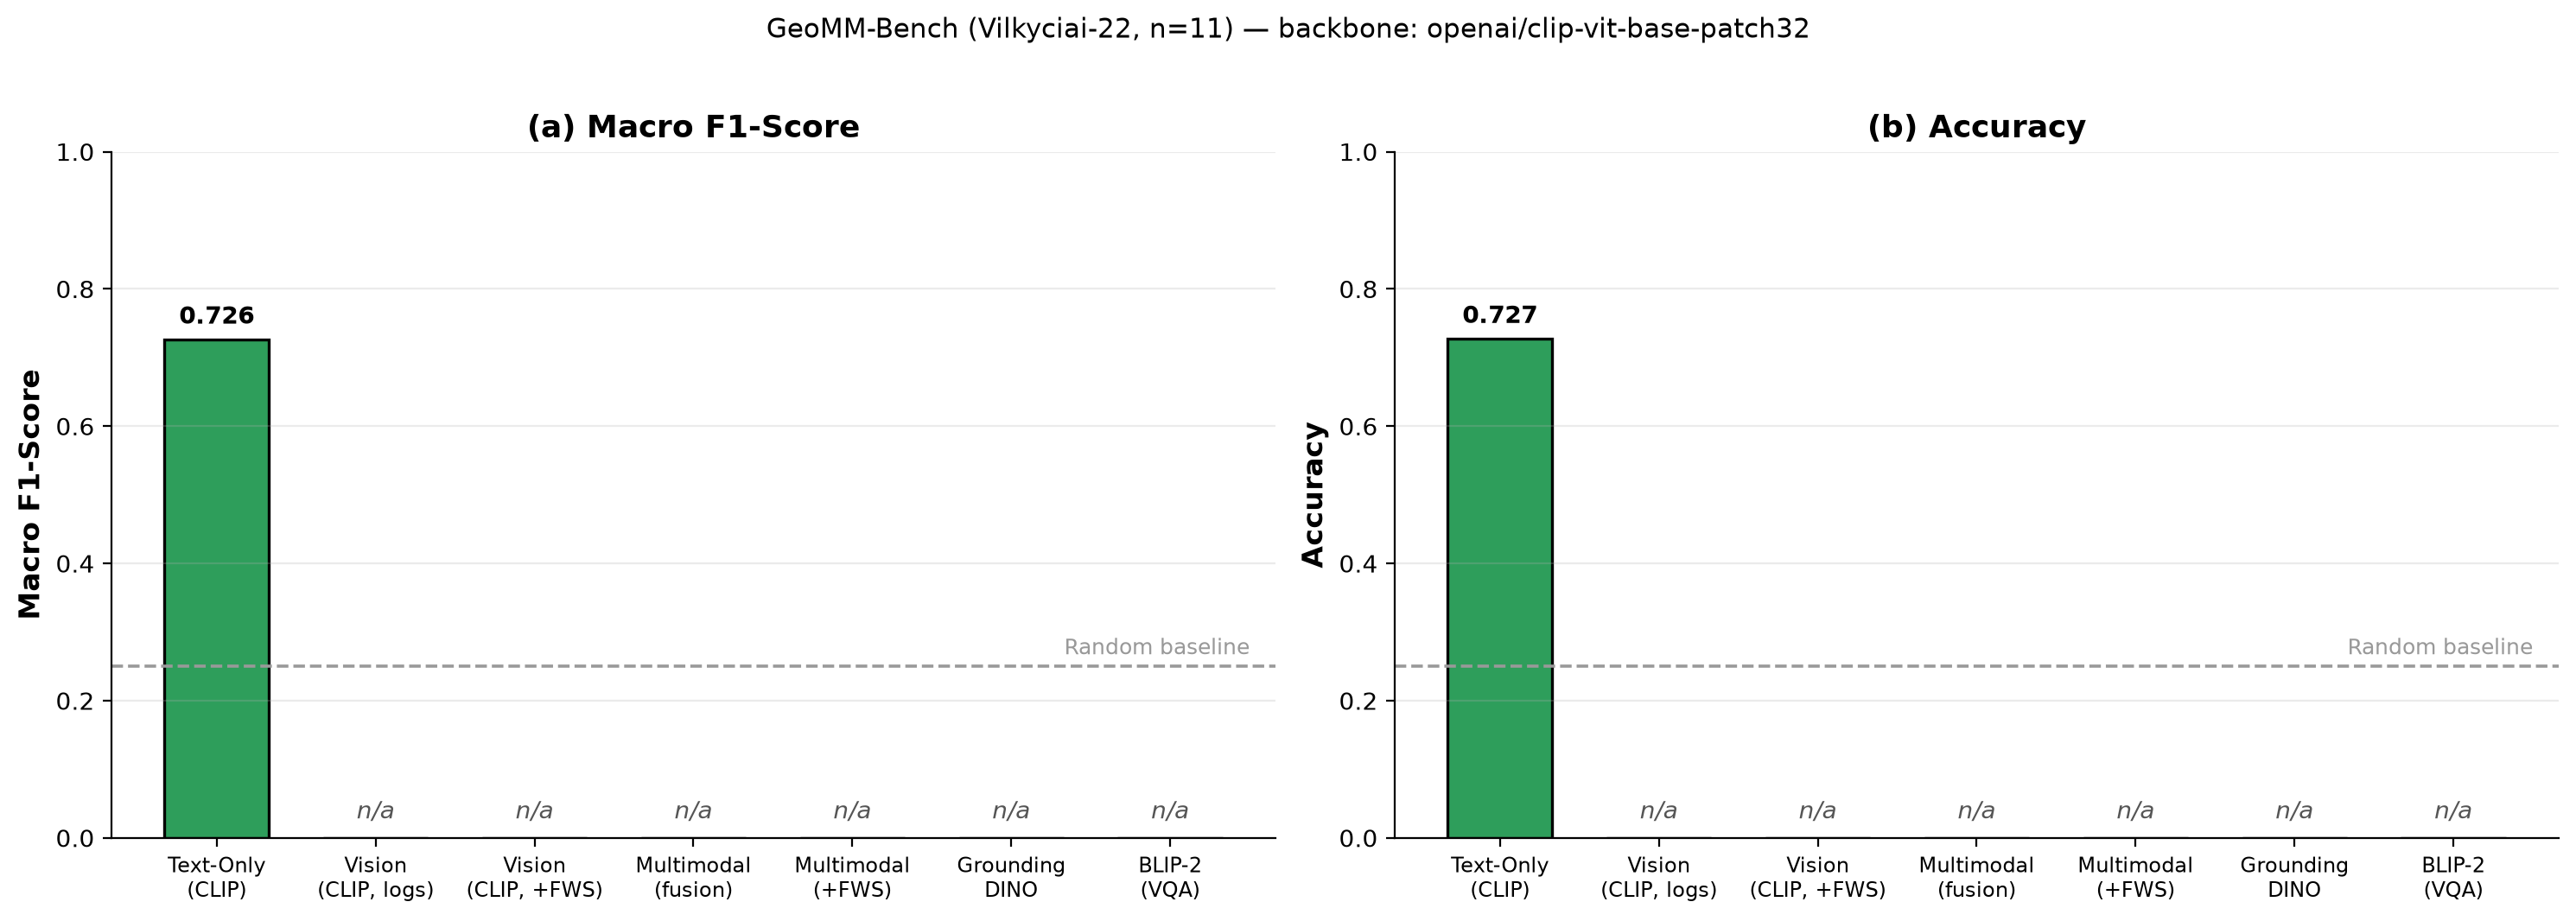
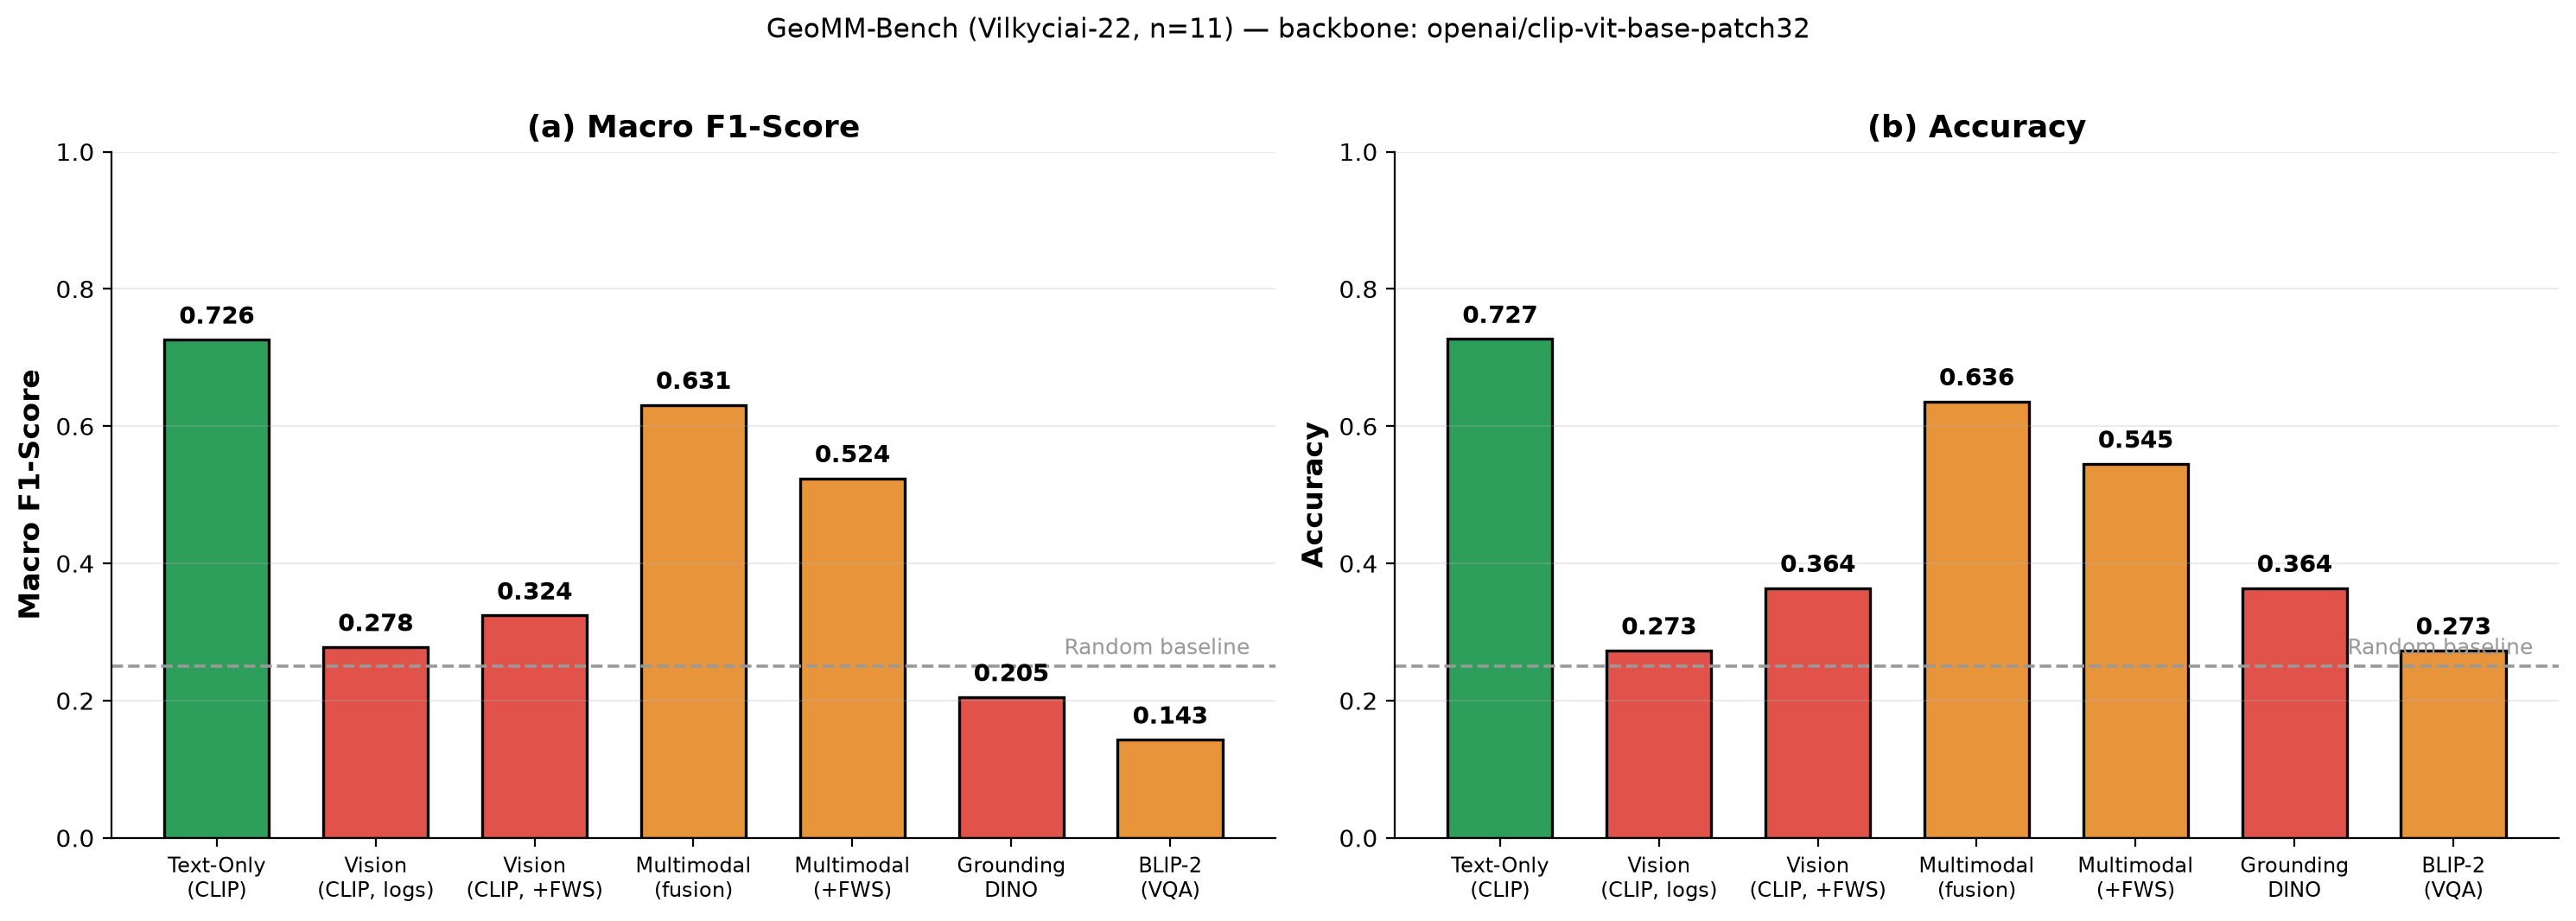
Experiment run

Changed region(s): [[0.624, 0.4024, 0.9983, 0.9287], [0.1248, 0.4024, 0.4992, 0.9287]]

diff --git a/geomm_bench/baselines.py b/geomm_bench/baselines.py
@@ -87,24 +87,24 @@ def _normalize(emb):
 
 
 def _text_embeddings(texts):
+    # Canonical CLIP text forward: pooled text-model output -> text projection.
     c = load_clip()
     inputs = c["processor"](text=list(texts), return_tensors="pt", padding=True, truncation=True)
     inputs = {k: v.to(DEVICE) for k, v in inputs.items()}
     with torch.no_grad():
-        out = c["model"].get_text_features(**inputs)
-        # transformers <5 returns the projected tensor; >=5 returns a pooled
-        # output object that still needs the CLIP text projection applied.
-        emb = out if torch.is_tensor(out) else c["model"].text_projection(out.pooler_output)
+        pooled = c["model"].text_model(**inputs).pooler_output
+        emb = c["model"].text_projection(pooled)
     return _normalize(emb)
 
 
 def _image_embedding(image):
+    # Canonical CLIP image forward: pooled vision-model output -> visual projection.
     c = load_clip()
     inputs = c["processor"](images=image, return_tensors="pt")
     inputs = {k: v.to(DEVICE) for k, v in inputs.items()}
     with torch.no_grad():
-        out = c["model"].get_image_features(**inputs)
-        emb = out if torch.is_tensor(out) else c["model"].visual_projection(out.pooler_output)
+        pooled = c["model"].vision_model(**inputs).pooler_output
+        emb = c["model"].visual_projection(pooled)
     return _normalize(emb)
 
 

diff --git a/geomm_bench/optional_models.py b/geomm_bench/optional_models.py
@@ -39,7 +39,7 @@ def classify_grounding_dino(image, box_threshold=0.15, text_threshold=0.15):
             outputs = g["model"](**inputs)
         res = g["processor"].post_process_grounded_object_detection(
             outputs, inputs["input_ids"],
-            box_threshold=box_threshold, text_threshold=text_threshold,
+            threshold=box_threshold, text_threshold=text_threshold,
             target_sizes=[image.size[::-1]])[0]
         s = res["scores"].cpu().numpy()
         scores[lith] = float(len(s) * s.mean()) if len(s) else 0.0

diff --git a/run_geomm_bench.py b/run_geomm_bench.py
@@ -108,7 +108,7 @@ def run(approaches, gt, log_pages=None, fws_pages=None):
 def build_doc(gt, log_pages=None, fws_pages=None, approaches=ALL_APPROACHES, sensitivity=True):
     """Assemble the full results document (primary results + sensitivity block)."""
     doc = {
-        "benchmark": "GeoMM-Bench", "version": "0.2.0", "well": "Vilkyciai-22",
+        "benchmark": "GeoMM-Bench", "version": "0.1.0", "well": "Vilkyciai-22",
         "n_intervals": len(gt), "backbone": BACKBONE,
         "metric": "macro_f1_present_classes",
         "results": run(approaches, gt, log_pages, fws_pages),

diff --git a/README.md b/README.md
@@ -10,7 +10,7 @@ interpretations. The pilot evaluates
 lithofacies classification and documents a large gap between text-based and
 vision-based performance.
 
-> **Status: v0.2 pilot.** One well (Vilkyciai-22), 11 labelled intervals, four
+> **Status: v0.1 pilot.** One well (Vilkyciai-22), 11 labelled intervals, four
 > lithofacies. A single CLIP backbone (`openai/clip-vit-base-patch32`) is used for
 > all CLIP approaches. Results establish the existence and approximate magnitude
 > of the text–vision gap, not precise population estimates. A FORCE 2020-based
@@ -25,21 +25,22 @@ lithofacies present in the pilot.
 | Approach | Macro-F1 | Accuracy |
 |---|---|---|
 | Text-Only (CLIP) | **0.726** | 72.7% |
-| Vision (CLIP, logs) | —&nbsp;† | —&nbsp;† |
-| Vision (CLIP, logs + FWS) | —&nbsp;† | —&nbsp;† |
-| Multimodal fusion (CLIP) | —&nbsp;† | —&nbsp;† |
-| Multimodal fusion (CLIP + FWS) | —&nbsp;† | —&nbsp;† |
-| Grounding DINO | —&nbsp;† | —&nbsp;† |
-| BLIP-2 (VQA) | —&nbsp;† | —&nbsp;† |
+| Multimodal fusion (CLIP) | 0.631 | 63.6% |
+| Multimodal fusion (CLIP + FWS) | 0.524 | 54.5% |
+| Vision (CLIP, logs + FWS) | 0.324 | 36.4% |
+| Vision (CLIP, logs) | 0.278 | 27.3% |
+| Grounding DINO | 0.205 | 36.4% |
+| BLIP-2 (VQA) | 0.143 | 27.3% |
 | Random baseline | 0.25 | 25% |
 
-† Image approaches require the operator source rasters (not redistributed; see
-`DATASHEET.md`) and are filled in by running `run_geomm_bench.py` with the PDFs.
-Only `text_only` runs without them.
+Image approaches require the operator source rasters (not redistributed; see
+`DATASHEET.md`); `text_only` runs without them. The numbers above are from a run
+with the PDFs and live in `results/geomm_bench_results.json`.
 
-In the pilot, text classifies reasonably (0.726 macro-F1) but the image-based
-approaches do not: CLIP-vision, grounding, VQA and the added-modality fusion all
-do poorly, and adding Full Wave Sonic makes the fusion worse.
+In the pilot, text classifies best (0.726 macro-F1). Every image-based approach is
+weaker: multimodal fusion (0.631) does not reach text, the pure-vision approaches
+trail further (0.278–0.324), grounding (0.205) and VQA (0.143) fall below the
+random-baseline F1, and adding Full Wave Sonic does not close the gap.
 
 ### Backbone sensitivity
 
@@ -50,11 +51,10 @@ in `results/geomm_bench_results.json`, produced by the same runner):
 | Approach (macro-F1) | OpenAI CLIP | open-clip / LAION |
 |---|---|---|
 | Text-Only (CLIP) | **0.726** | **0.726** |
-| Vision-Only (CLIP) | —&nbsp;† | —&nbsp;† |
+| Vision-Only (CLIP) | 0.278 | 0.578 |
 
-† Vision needs the source PDFs; run `run_geomm_bench.py` with them to fill these.
-In earlier runs vision-CLIP scored about 0.09 on OpenAI CLIP and about 0.62 on
-LAION, while text-only stayed at 0.726 on both. Because the vision result depends
+Text-only is the same on both backbones; vision-CLIP roughly doubles (0.278 →
+0.578) just by changing the pretraining corpus. Because the vision result depends
 so much on the backbone, the safer reading is that no off-the-shelf approach is
 dependable here, rather than that vision always fails.
 

diff --git a/EXPERIMENT.md b/EXPERIMENT.md
@@ -33,10 +33,10 @@ text-only and vision-CLIP under open-clip/LAION and writes a
 | macro-F1 | OpenAI CLIP | open-clip / LAION |
 |---|---|---|
 | `text_only` | 0.726 | 0.726 |
-| `vision_clip` | — (needs PDFs) | — (needs PDFs) |
+| `vision_clip` | 0.278 | 0.578 |
 
-Text-only is the same on both backbones; vision-CLIP is not — earlier runs put it
-near 0.09 on OpenAI CLIP and around 0.62 on LAION. That is why both are reported
+Text-only is the same on both backbones; vision-CLIP roughly doubles (0.278 →
+0.578) just by changing the pretraining corpus. That is why both are reported
 instead of picking one. The LAION backbone needs `open-clip-torch`; without it,
 only the OpenAI row is scored.
 
@@ -63,9 +63,10 @@ python scripts/make_results_figure.py \
   --out images/Figure2_Results_Comparison.png
 ```
 
-The committed `results/geomm_bench_results.json` only has `text_only` filled — it
-is the one approach that runs without the operator rasters. The image approaches
-stay `null` until you supply the PDFs and re-run.
+The committed `results/geomm_bench_results.json` was produced from a run with the
+operator PDFs, so all approaches are filled. Without those rasters (which are not
+redistributed) only `text_only` is reproducible; the image approaches need the
+PDFs.
 
 ## Package layout
 

diff --git a/DATASHEET.md b/DATASHEET.md
@@ -5,9 +5,9 @@ Following the *Datasheets for Datasets* convention (Gebru et al.).
 ## Motivation
 GeoMM-Bench evaluates whether multimodal AI systems can interpret well log
 *display imagery*, the visual form in which much subsurface data (including
-legacy scanned archives) exists. It was created to provide the first shared,
-reproducible yardstick for vision-based lithofacies interpretation, complementing
-text-only petroleum benchmarks and numerical-log datasets.
+legacy scanned archives) exists. It was built as a shared, reproducible benchmark
+for vision-based lithofacies interpretation, alongside text-only petroleum
+benchmarks and numerical-log datasets.
 
 ## Composition
 - **Instances.** 11 labelled depth intervals from the Vilkyciai-22 well (Baltic
@@ -55,9 +55,9 @@ Vilkyciai-22 well; the pilot is too small for operational use.
 
 ## Limitations
 Single well, single basin, 11 intervals, imbalanced classes, dolomite unlabelled.
-Reported scores establish the existence and approximate magnitude of the
-text–vision gap, not precise population estimates. See the paper's Threats to
-Validity and Limitations sections.
+Reported scores show that a text–vision gap exists and roughly how large it is;
+they are not precise population estimates. See the paper's Threats to Validity and
+Limitations sections.
 
 ## Maintenance
 Maintained by Synka Labs. Versioned; v0.2 will add FORCE 2020 wells with